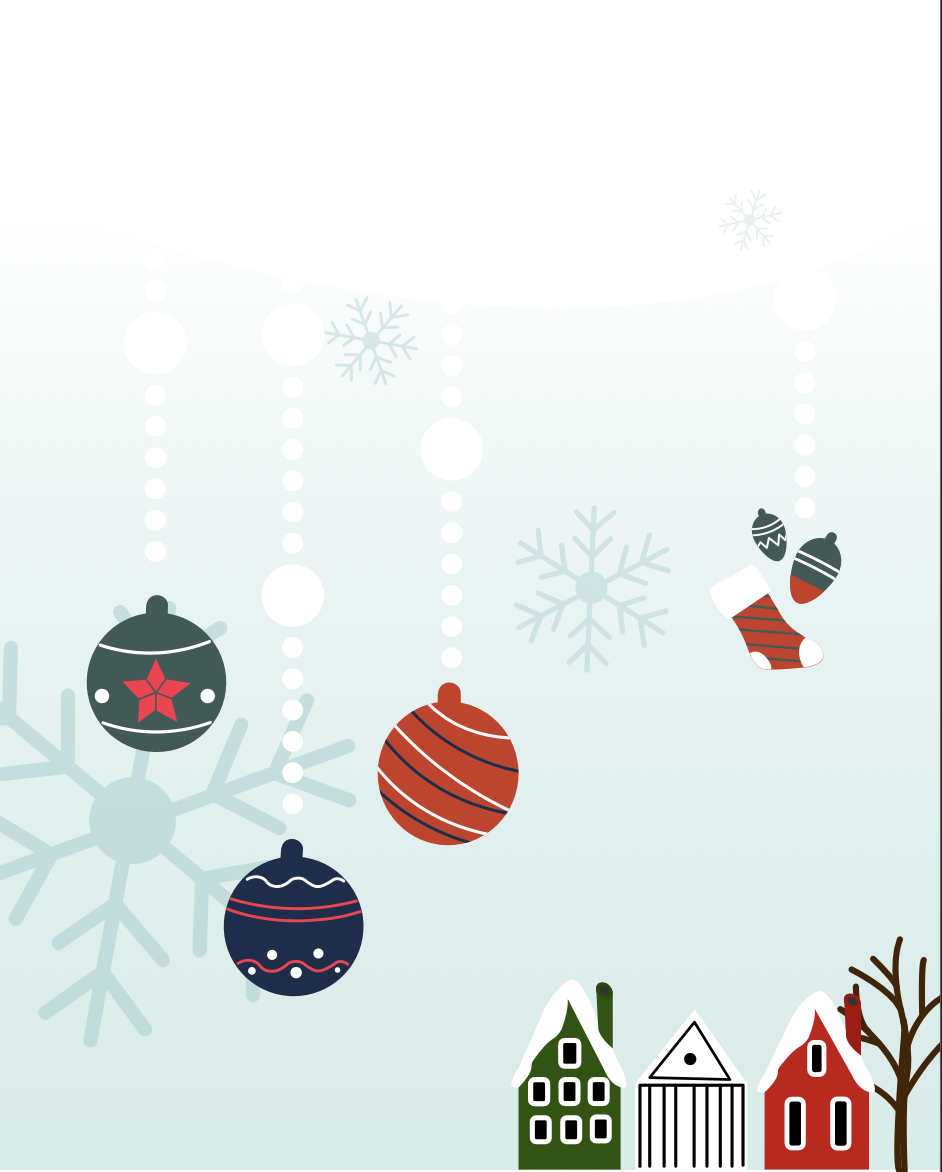
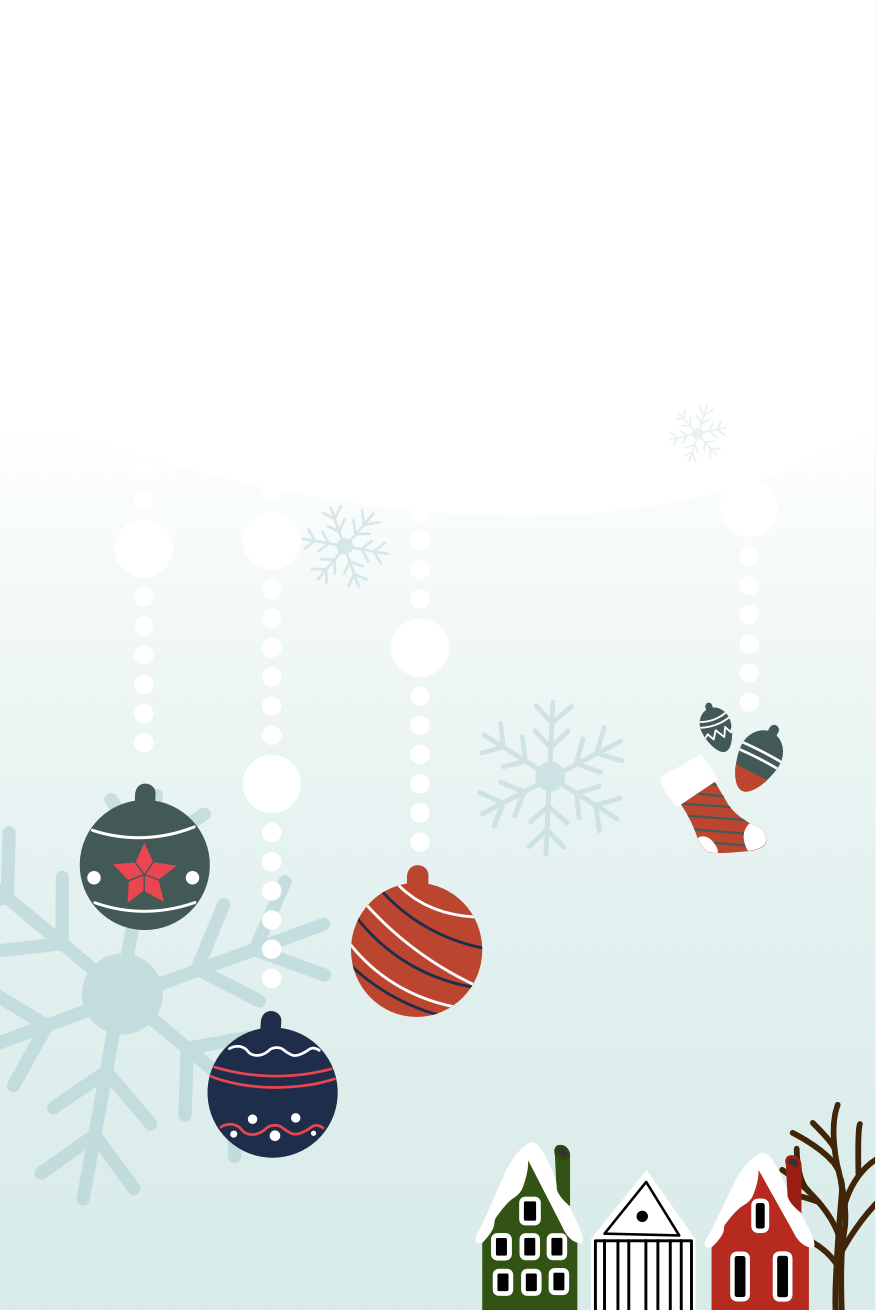
feat: background color and card width

diff --git a/test.html b/test.html
@@ -6,21 +6,21 @@
     <link rel="preconnect" href="https://fonts.googleapis.com">
     <link rel="preconnect" href="https://fonts.gstatic.com" crossorigin>
     <link href="https://fonts.googleapis.com/css2?family=Open+Sans:ital,wght@0,300..800;1,300..800&family=Roboto:ital,wght@0,100;0,300;0,400;0,500;0,700;0,900;1,100;1,300;1,400;1,500;1,700;1,900&display=swap" rel="stylesheet">
-    <link rel="stylesheet" href="/HappyBirthdayResult/style.css">
+    <link rel="stylesheet" href="/style.css">
 </head>
 <body>
     <header>
-        <img src="/HappyBirthdayResult/img/header.png" alt="header">
+        <img src="/img/header.png" alt="header">
     </header>
     <div class="content-container">
-        <img src="/HappyBirthdayResult/img/content.png" alt="content" class="content-img">
+        <img src="/img/content.png" alt="content" class="content-img">
     </div>
     <div class="photo-container">
-        <img src="/HappyBirthdayResult/img/event.png" alt="event" class="event-img">
+        <img src="/img/event.png" alt="event" class="event-img">
 
             <div class="slider-container">
-                <img src="/HappyBirthdayResult/img/tree.png" alt="tree" class="tree-img tree-left">
-                <img src="/HappyBirthdayResult/img/tree.png" alt="tree" class="tree-img tree-right">
+                <img src="/img/tree.png" alt="tree" class="tree-img tree-left">
+                <img src="/img/tree.png" alt="tree" class="tree-img tree-right">
                 <div class="slider">
                     <div class="slide">
                         <img src="https://youstar-photo-storage.s3.ap-northeast-2.amazonaws.com/황서진 눈사람/photo/9c9de164-4e06-4e97-8792-c13d9dee67b7.jpeg" alt="이미지 1">
@@ -44,23 +44,23 @@
     </div>
     <div class="tv-container">
         <div class="tv-wrapper">
-            <img src="/HappyBirthdayResult/img/tv.png" alt="tv" class="tv-img" id="tv-thumbnail">
+            <img src="/img/tv.png" alt="tv" class="tv-img" id="tv-thumbnail">
             <div class="video-modal" id="video-modal">
                 <div class="video-container">
                     <button class="close-btn">&times;</button>
                     <video class="tv-video" controls>
-                        <source src="/HappyBirthdayResult/img/tv_video.MP4" type="video/mp4">
+                        <source src="img/tv_video.MP4" type="video/mp4">
                     </video>
                 </div>
             </div>
         </div>
     </div>
     <div class="letter-container">
-        <img src="/HappyBirthdayResult/img/letter.png" alt="letter" class="letter-img">
+        <img src="/img/letter.png" alt="letter" class="letter-img">
     </div>
-    <img src="/HappyBirthdayResult/img/design.png" alt="design" class="design-img">
-    <img src="/HappyBirthdayResult/img/message.png" alt="message" class="message-img">
-    <img src="/HappyBirthdayResult/img/footer.png" alt="footer" class="footer-img">
+    <img src="/img/design.png" alt="design" class="design-img">
+    <img src="/img/message.png" alt="message" class="message-img">
+    <img src="/img/footer.png" alt="footer" class="footer-img">
 </body>
-<script src="/HappyBirthdayResult/script.js"></script>
+<script src="/script.js"></script>
 </html>

diff --git a/style.css b/style.css
@@ -9,6 +9,8 @@ body {
     margin: 0;
     padding: 0;
     overscroll-behavior-x: none;  /* 모바일에서 당겨서 새로고침 방지 */
+    background-color: rgb(146, 38, 56);
+    margin: 60px 0px 60px 0px;
     /* 배경색 제거 */
 }
 
@@ -104,7 +106,7 @@ main {
 
 .slide {
     position: absolute;
-    width: 100%;
+    width: 90%;
     height: 100%;
     border-radius: 15px;
     overflow: hidden;
@@ -260,7 +262,6 @@ main {
     width: 100%;
     height: auto;
     display: block;
-    margin-top: 100px;
 }
 
 .message-img {
